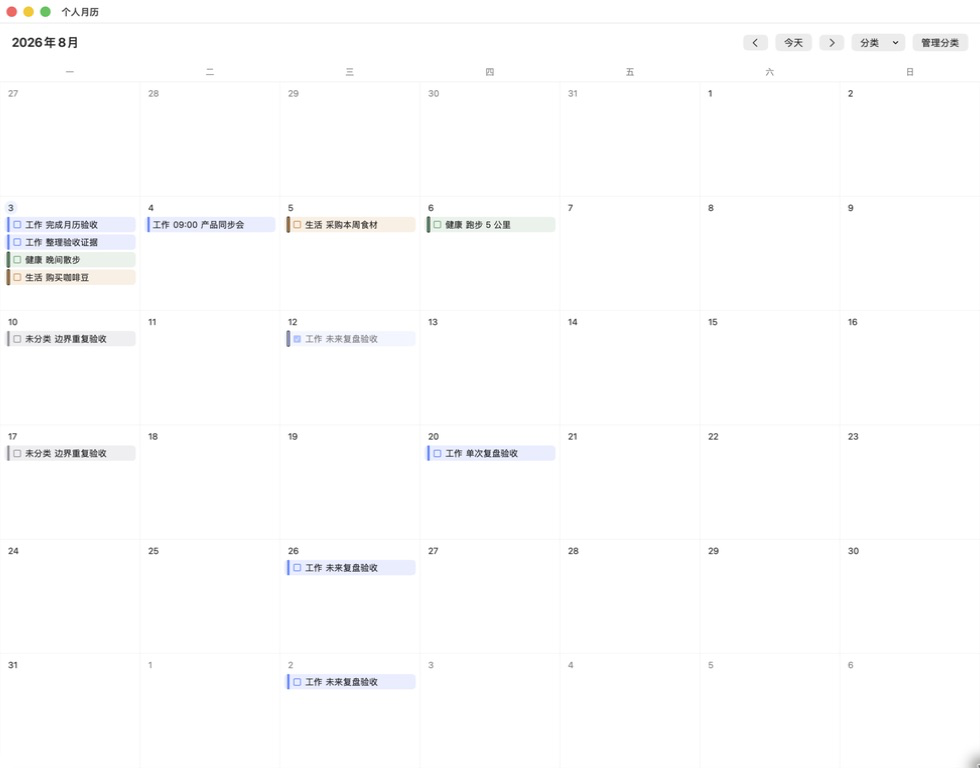
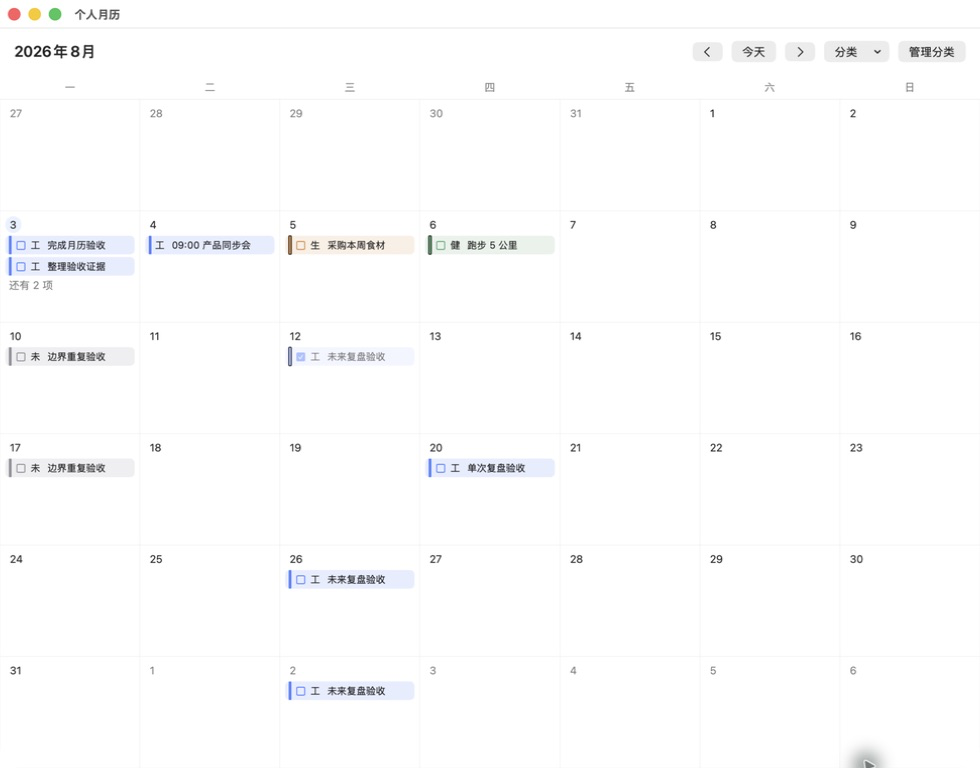
docs: 固化最终交付与视觉证据

diff --git a/docs/validation/calendar-v1/acceptance.md b/docs/validation/calendar-v1/acceptance.md
@@ -2,8 +2,18 @@
 
 验收日期：2026-08-03
 
-权威交付物：`dist/个人月历.app.zip`。`dist/个人月历.app` 只是本机启动和归档前的中间副本；该工作目录位于 Documents 时，FileProvider 扩展属性可能污染裸 App，故不得把它写成权威交付物或权威签名包。
+权威交付物：`dist/个人月历.app.zip`。`dist/个人月历.app` 只是尽力发布的本机启动副本；该工作目录位于 Documents 时，FileProvider 扩展属性可能污染裸 App，故不得把它写成权威交付物或权威签名包。
 证据原则：自动化测试只证明其覆盖的语义；涉及真实窗口、交互、外观、重启或文件面板的条目，必须以从权威 ZIP 解出的 App 的实际操作和对应 PNG/命令证据确认，不能由源码检查替代。
+
+## 最终交付指纹
+
+- 构建来源提交：`e4b9fb7`（后续只追加验收文档和截图，不再重新打包）
+- 证据批次：`20260803-e4b9fb7-final`
[1 lines of base64/hex data omitted]
+- 从该 ZIP 解出的 `个人月历.app` CDHash：`0f7845f1983f5b276824e2309ae20b81b1fdeb53`
[2 lines of base64/hex data omitted]
+- 严格校验：ZIP 新鲜解包后 `plutil -lint`、`codesign --verify --deep --strict` 通过，且无 `com.apple.FinderInfo` / `com.apple.fileprovider` 扩展属性。
 
 | # | 场景 | Expected | Automated evidence | Manual evidence | Result |
 | --- | --- | --- | --- | --- | --- |
@@ -24,7 +34,7 @@
 | 15 | 月份导航/今天/选中日 | 上月、下月、今天正确改变月份；今天和选中日期有清晰标识 | `MonthGridBuilderTests.august2026ProducesMondayFirstFortyTwoCellGrid`、`MonthViewModelTests.monthNavigationAndTodaySelectionUseCivilMonthArithmetic` | 真实上月到 2026 年 7 月、下月回 8 月、今天回当前月 | 通过 |
 | 16 | 关闭重启后持久化 | 分类、事项、重复例外与完成状态在进程重启后仍完整 | `JSONCalendarRepositoryTests.saveThenReopenRoundTripsState`、`completeGraphRoundTripsExactly` | 多次 quit/relaunch；有效恢复后再次重启，4 分类/7 事项/2 系列、8/12 完成、8/20 单次例外均完整 | 通过 |
[1 lines of base64/hex data omitted]
-| 18 | 浅色/深色可读性与月格密度 | 浅深外观下分类色+文字均可读；任务/日程可辨；完成任务降权但可读；最小尺寸无裁切，六周月和“还有 N 项”可扫读 | `CategoryManagerViewModelTests.readabilityForCustomColorMatchesRenderedTheme`、`completedTaskAccentUsesRenderedOpacityWhenDecidingItsOutline`、`MonthViewModelTests.itemCapacityPreservesOneOverflowRow`、`CalendarItemRowPresentationTests.compactTimedRowKeepsFullStartTimeReadableCategoryAndTitle`、`compactTimedRowUsesReadableCategoryPrefixInsteadOfMeaninglessEllipsis`、`narrowUntimedRowAlsoKeepsReadableCategoryPrefixAndTitle` | 主控从权威 `dist/个人月历.app.zip` 解出 App 后，以真实 CUA 在同一 fixture 重采浅/深 980 图。两种外观下，定时行同时显示分类色条、可辨“工作”、完整 `09:00` 与标题“产品同步会”；无时间任务也显示分类文字与标题；六周、多分类色、完成态和月格均无裁切。截图实际为 980×768（含标题栏；内容高度不低于 680），系统外观最终恢复深色。 | 通过 |
+| 18 | 浅色/深色可读性与月格密度 | 浅深外观下分类色+文字均可读；任务/日程可辨；完成任务降权但可读；最小尺寸无裁切，六周月和“还有 N 项”可扫读 | `CategoryManagerViewModelTests.readabilityForCustomColorMatchesRenderedTheme`、`completedTaskAccentUsesRenderedOpacityWhenDecidingItsOutline`、`MonthViewModelTests.itemCapacityPreservesOneOverflowRow`、`CalendarItemRowPresentationTests.compactTimedRowKeepsFullStartTimeReadableCategoryAndTitle`、`compactTimedRowUsesReadableCategoryPrefixInsteadOfMeaninglessEllipsis`、`compactTimedLayoutUsesReducedTypographyWhileStandardKeepsOriginalSize`、`narrowUntimedRowAlsoKeepsReadableCategoryPrefixAndTitle` | 主控从指纹对应的权威 ZIP 解出 App 后，以真实 CUA 在同一 fixture 重采浅/深 980 图。两种外观下，紧凑行显示分类色条与单字符分类 `工/生/健/未`，定时行完整显示 `09:00` 和标题“产品同步会”，8 月 3 日显示“还有 2 项”；六周、多分类色、完成态和月格均无裁切。可访问树仍报告完整“工作, 09:00, 产品同步会”以及“生活”“健康”“未分类”，没有把视觉缩写泄漏给辅助功能。截图实际为 980×768（含标题栏；内容高度不低于 680），系统外观最终恢复深色。 | 通过 |
 
 ## 截图清单与检查点
 
@@ -32,11 +42,11 @@
 | --- | --- | --- |
 | `light-1180x820.png` | 打包 App 浅色、1180×820、六周月份、无时间任务、定时日程、完成任务、多分类色及“还有 N 项” | 已采集并目检：最终浅色 fixture、实际像素 1180×712；CUA 虚拟显示限制，内容最小高 680，非 820px 总高 |
 | `dark-1180x820.png` | 同一真实 fixture 的深色、1180×820 | 已采集并目检：最终深色 fixture、实际像素 1180×712；同受 CUA 虚拟显示限制 |
-| `light-980x680.png` | 从权威 ZIP 解出的 App：浅色最小窗口、同一完整 fixture、无裁切 | 已重采并目检：实际 980×768；分类色与文字、完整 `09:00`、标题、六周月格均可读 |
-| `dark-980x680.png` | 从权威 ZIP 解出的 App：深色最小窗口、同一完整 fixture、无裁切 | 已重采并目检：实际 980×768；与浅色使用同一 fixture，分类语义和标题均未丢失 |
+| `light-980x680.png` | 从指纹对应的权威 ZIP 解出的 App：浅色最小窗口、同一完整 fixture、无裁切 | 已重采并目检：实际 980×768；分类色和 `工/生/健/未`、完整 `09:00`、完整“产品同步会”、“还有 2 项”及六周月格均可读 |
+| `dark-980x680.png` | 从指纹对应的权威 ZIP 解出的 App：深色最小窗口、同一完整 fixture、无裁切 | 已重采并目检：实际 980×768；与浅色使用同一 fixture，分类语义、完整时间和标题、“还有 2 项”均未丢失 |
 | `quick-create-focus-light.png` | 浅色日期格旁快速创建浮层，标题插入点/焦点明显 | 已采集并目检：实际像素 1180×712；快速创建浮层、标题文本和蓝色焦点框可见 |
 | `day-drawer-980x680.png` | 最小窗口拥挤日期的“还有 N 项”与完整当天抽屉 | 已采集并目检：实际像素 980×712；月格“还有 3 项”和右侧当天完整抽屉可见 |
 | `category-manager-previews.png` | 独立分类管理窗口，同时显示浅/深色预览和对比值 | 已采集并目检：实际像素 900×552；浅/深预览同时显示，对比值为 14.38:1 与 13.12:1 |
 | `recurring-scope-dialog.png` | 月格上方的“仅本次 / 本次及以后 / 取消”确认 | 已采集并目检：实际像素 3024×1964；三个范围选项清晰可见 |
 
-最终结论：18 条场景中，16 条已完成自动化与真实手动路径并通过；#8 重复事项整段拖拽、#10 普通事项拖拽仍为“部分通过/真实手势未确认”，不把它们写成全绿。#18 已由权威 ZIP 解出的 App 在浅/深 980 最小窗口下重采并通过；新图实际为 980×768，内容高度满足不低于 680 的合同。#1 的排序需求已由真实可访问备用入口与 Command-Z 完成。
+最终结论：18 条场景中，16 条已完成自动化与真实手动路径并通过；#8 重复事项整段拖拽、#10 普通事项拖拽仍为“部分通过/真实手势未确认”，不把它们写成全绿。#18 已由指纹对应的权威 ZIP 解出的 App 在浅/深 980 最小窗口下重采并通过；新图实际为 980×768，并同时包含完整时间、短标题和“还有 2 项”。#1 的排序需求已由真实可访问备用入口与 Command-Z 完成。
